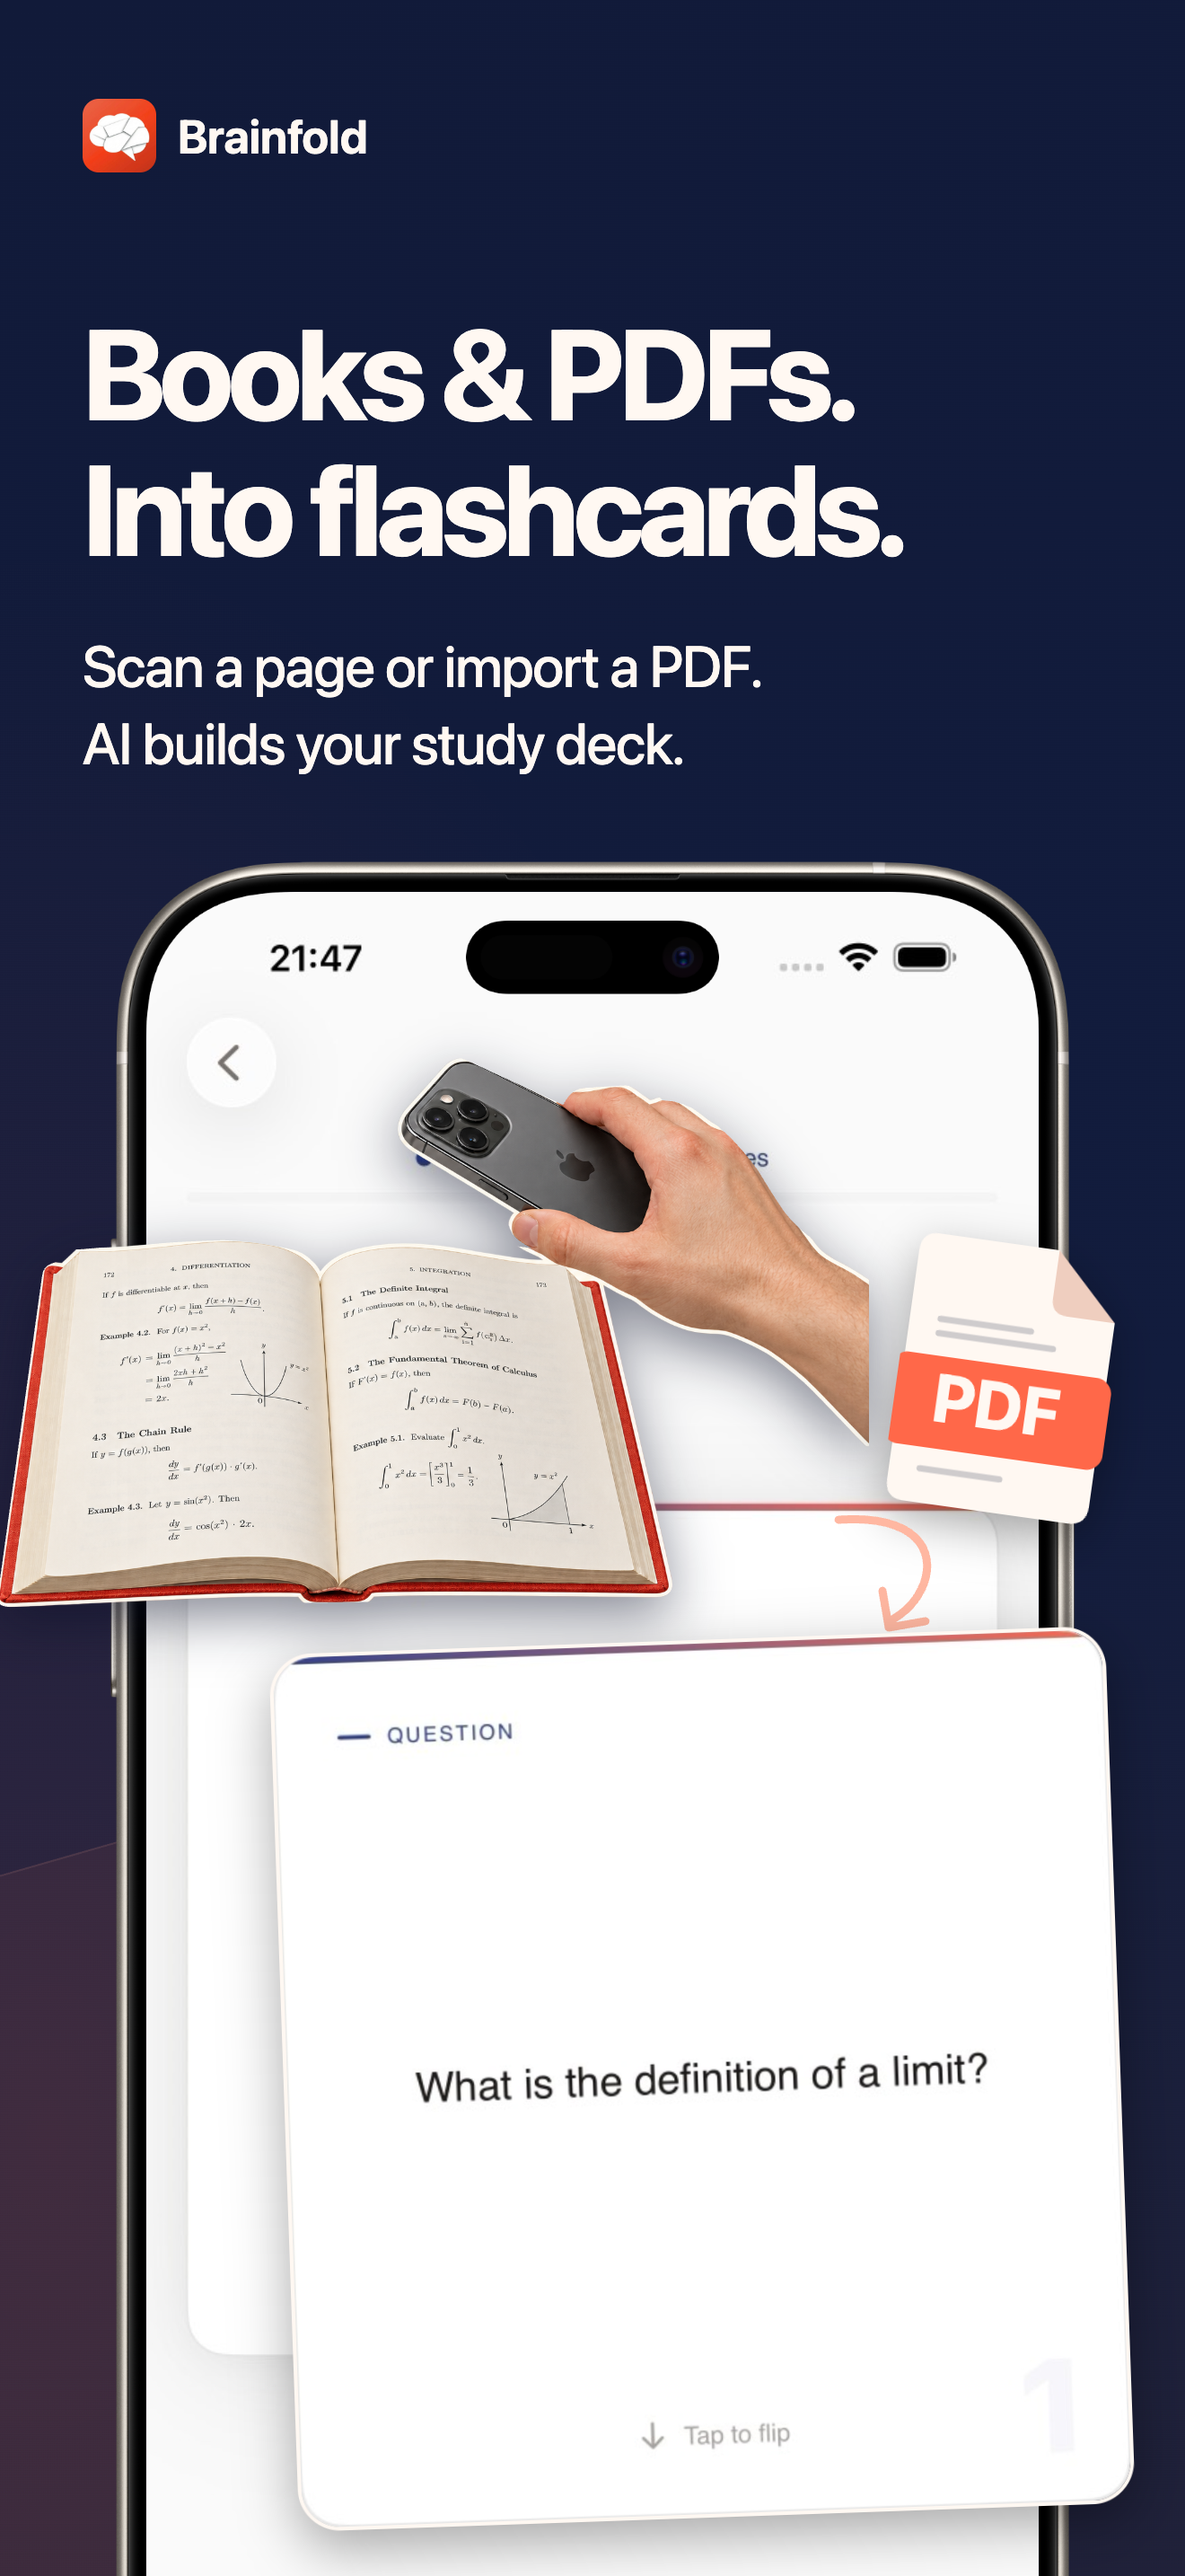
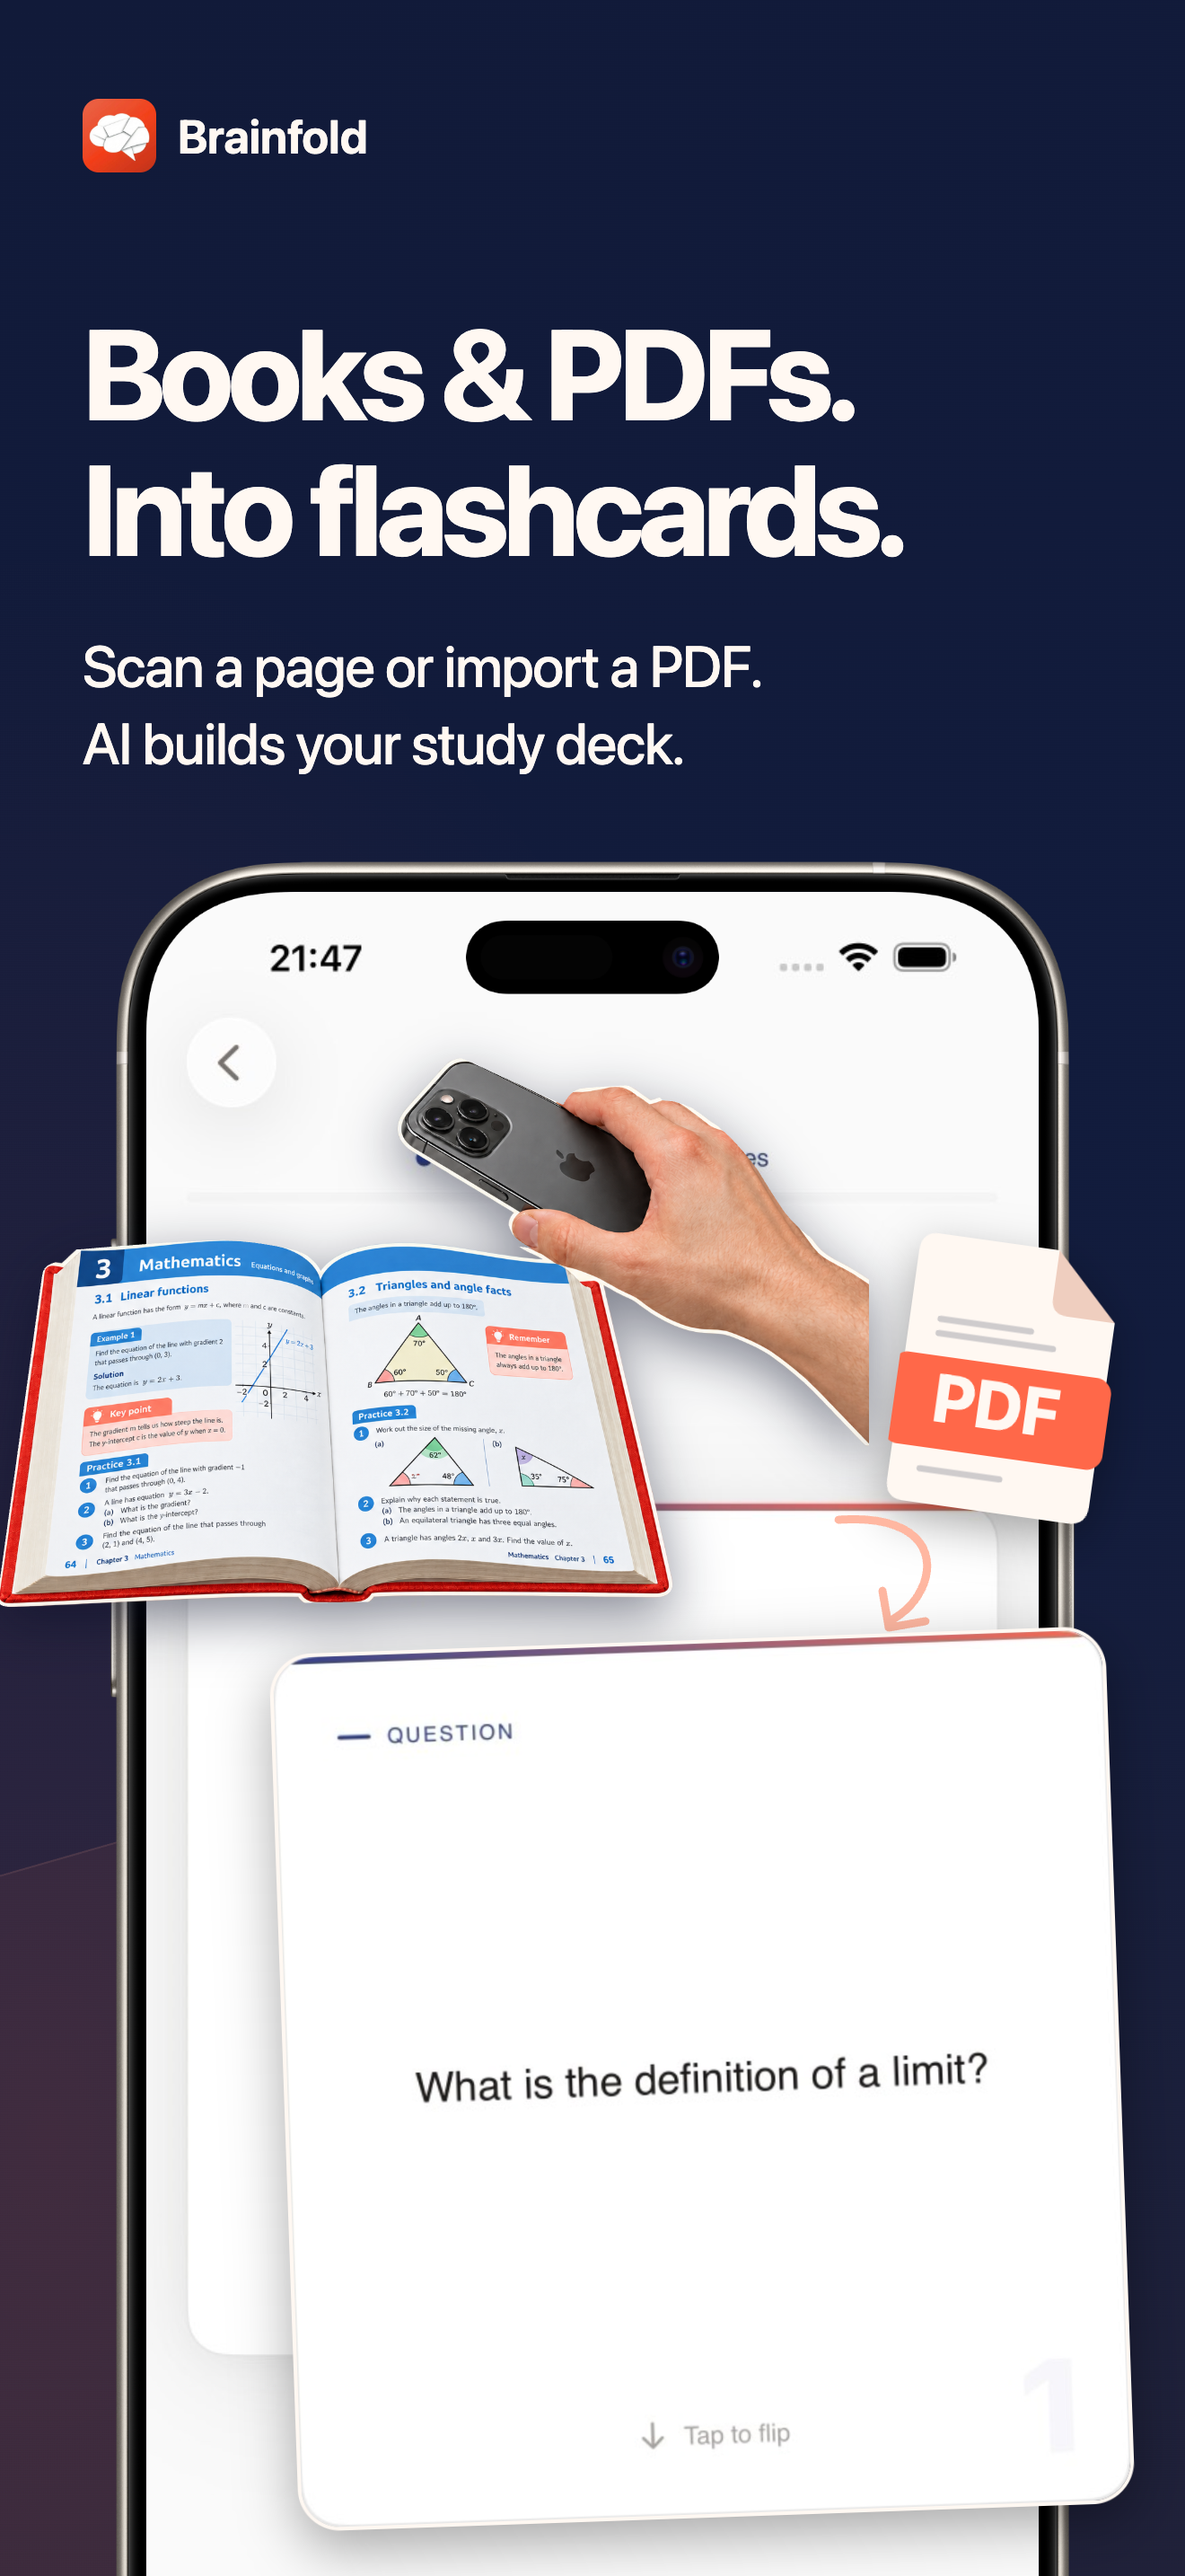
Use school textbook in Brainfold import screenshot pilot

Changed region(s): [[0.0311, 0.4655, 0.5591, 0.6206], [0.0, 0.5275, 0.0311, 0.6206]]

diff --git a/docs/marketing/october-2026/brainfold-import-pilot/README.md b/docs/marketing/october-2026/brainfold-import-pilot/README.md
@@ -15,7 +15,7 @@ English copy:
 >
 > Scan a page or import a PDF. / AI builds your study deck.
 
-The isolated book-scanning photo was generated and refined with the built-in `image_gen` tool. Exact initial/refinement prompts and original output path are preserved in `provenance.json`. A measured SVG silhouette mask removes the generated peripheral haze in the layout; the image keeps its original pixels and ivory contour. The PDF file illustration is editorial artwork, not a claimed native interface control.
+The isolated book-scanning photo was generated and refined with the built-in `image_gen` tool. It shows a modern school mathematics textbook with colorful diagrams, numbered practice exercises and teaching-tip boxes. Exact prompts and original output paths are preserved in `provenance.json` and `schoolbook-edit.json`. A measured SVG silhouette mask removes the generated peripheral haze in the layout; the image keeps its original pixels and ivory contour. The PDF file illustration is editorial artwork, not a claimed native interface control.
 
 The iPhone frame is the existing original Apple PNG, with its measured 1320 × 2868 opening. The flashcard pixels and complete rounded component are from the existing real English app capture; no UI or device hardware was generated or altered. `validation.json` records source hashes, screenshot dimensions, card crop, copy metrics and frame geometry.
 
